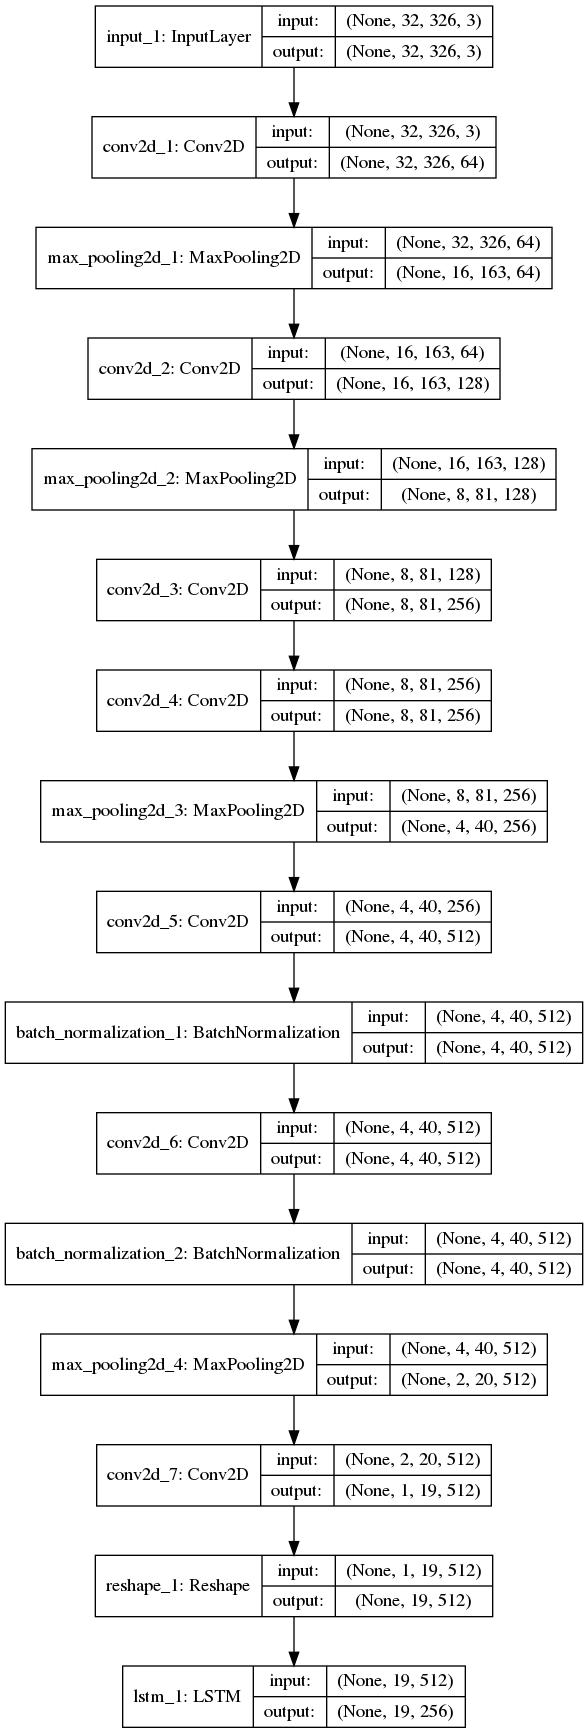
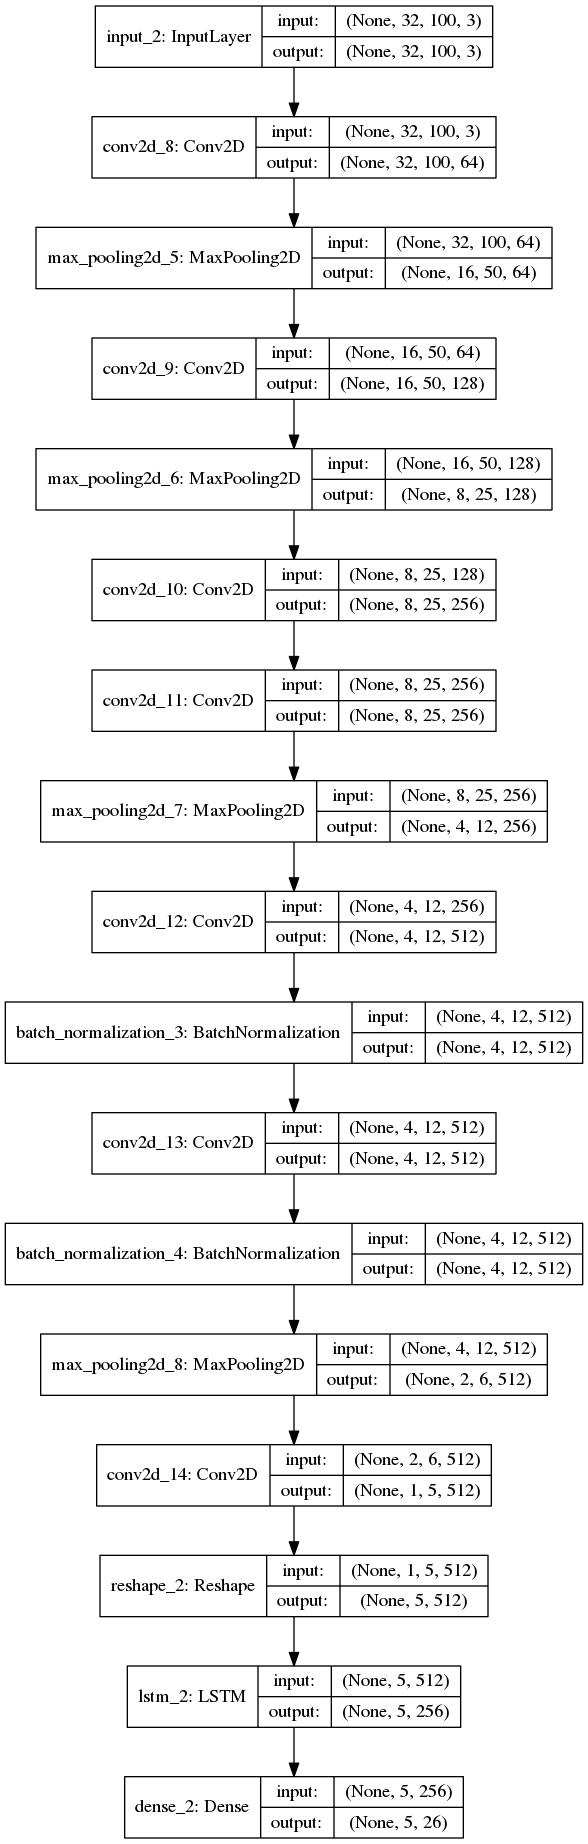
write load_data

Changed region(s): [[0.0, 0.0, 1.0, 1.0], [0.1837, 0.0, 0.4286, 0.0312]]

diff --git a/utils/load_data.py b/utils/load_data.py
@@ -8,14 +8,53 @@ Created on Sun Dec  9 15:43:49 2018
 
 import os
 import cv2
+import numpy as np
 
-data_dir='../data/synth90k'
-list_path=os.path.join(data_dir,'image_list.txt')
 
-with open(list_path) as f:
-    txt=f.readlines()
-    txt=list(map(lambda x : x[:-1],txt))
+
+
+class TextData(object):
+    def __init__(self,image_dir):
+        walk=os.walk(image_dir)
+        box=[]
+        for root, dirs, files in walk:
+            for name in files:
+                if name.endswith('jpg'):
+                    box.append(os.path.join(root,name))
+        self.file_list=box
+        self.len=len(box)
+        self.index=np.array(range(len(box)))
+    def shuffle(self):
+        ind=np.array(range(len(self.file_list)))
+        np.random.shuffle(ind)
+        self.file_list=list(map(lambda i : self.file_list[i],ind))
+
+    def getitem(self,ind):
+        assert ind<self.len
+        image_path=self.file_list[ind]
+        image = cv2.imread(image_path)
+        
+        _,filename=os.path.split(image_path)
+        name,_=os.path.splitext(filename)
+        label=name.split('_')[1]
+        
+        return image,label
+
+
+if __name__=='__main__':
     
-image_path=os.path.join(data_dir,txt[-1])
-#image_path='../data/synth90k/701/4/242_Snapdragon_72126.jpg'
-image = cv2.imread(image_path)
+    data_dir='../data/synth90k'
+    list_path=os.path.join(data_dir,'image_list.txt')
+    
+    txtdata=TextData(data_dir)
+    ll=txtdata.file_list
+    
+#    list_path=os.path.join(data_dir,'image_list.txt')
+#    
+#    with open(list_path) as f:
+#        txt=f.readlines()
+#        txt=list(map(lambda x : x[:-1],txt))
+#        
+#    image_path=os.path.join(data_dir,txt[-1])
+#    #image_path='../data/synth90k/701/4/242_Snapdragon_72126.jpg'
+#    image = cv2.imread(image_path)

diff --git a/utils/crnn_model.py b/utils/crnn_model.py
@@ -90,7 +90,7 @@ class CRNNCTCNetwork(object):
 
 
 if __name__=='__main__':
-    crnn=CRNNCTCNetwork('train',256,20,26,(32,326,3))
+    crnn=CRNNCTCNetwork('train',256,20,26,(32,100,3))
     model=crnn.build_network()
     print (model.summary())
-#    plot_model(model, to_file='../data/model.jpg',show_shapes=True)
+    plot_model(model, to_file='../data/model.jpg',show_shapes=True)
